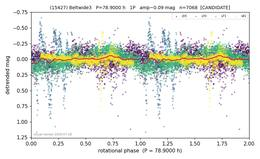
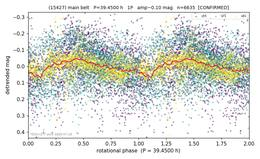
feat: 86-object quality review complete (83 hold); fragment gate; audit as standing gate
Human review of all 86 audit-flagged objects on the published folds:
- 83 HOLD unchanged
- (6740) downgraded (previous commit)
- (15427) holds at 39.45 h (ZTF blind-recovers the 39.2/78.6 pair at FAP 5e-21); its s70
  fragment (429 pts, 24 h baseline, census no-detection, grid-edge) is removed from the
  display, and a general rule now excludes any fragment covering <3/4 cycle from folds
- (46992) holds, with the eclipsing-binary reading documented (previous commit)

METHODOLOGY 6b records the curve-quality audit + human review as a standing release gate,
with the per-sector-relative outlier normalisation that makes it fair across the 2-4x
noisier extended-mission sectors.

diff --git a/methodology/METHODOLOGY.md b/methodology/METHODOLOGY.md
@@ -114,6 +114,27 @@ amplitude rule the measurement wins and the override is recorded with its eviden
 the worked example (odd-harmonic 4.3 sigma at 227.79 h in a directly extracted sector, against
 an amplitude of 0.256 mag that the rule would have halved).
 
+## 6b. Curve-quality audit and human review (standing gate, added 2026-08-01)
+The signal gates above test the detection; none of them asks whether the CURVE is clean
+enough to carry the claim it carries. That gap let a curve with day-long brightening bursts
+hold a CONFIRMED 379 h entry until a human spotted it in the published montage. Two measures
+now close it:
+
+- `curve_quality_audit` ranks every catalog object by (a) its worst sector's outlier rate
+  relative to THAT SECTOR's own norm (extended-mission sectors run 2-4x noisier than early
+  ones, so absolute rates mislead), (b) the spread of folded amplitude across sectors,
+  (c) the cycle count in the poorest sector, and (d) whether the 1P/2P call is measured or
+  conventional. Objects with two or more flags go to human review.
+- Every flagged object is REVIEWED BY EYE on the published fold before release, with three
+  possible verdicts per object (holds / downgrade / kill) recorded alongside the audit. The
+  2026-08-01 pass reviewed 86 flagged objects: 83 held, one was downgraded (its doubling had
+  no shape evidence and its curve carries unexplained bursts), one had a sub-cycle 24 h data
+  fragment removed from its display, one gained a documented eclipsing-binary reading.
+
+Display rule from the same pass: a sector fragment covering less than ~3/4 of one cycle of
+the adopted period is excluded from published folds; it cannot phase-fold meaningfully and
+only smears the figure.
+
 ## 7. Published fold displays
 The phase-fold plots in `plots/` show the photometry the periods were derived from, with
 two display-side contamination excisions (both disclosed here and in figure captions):
